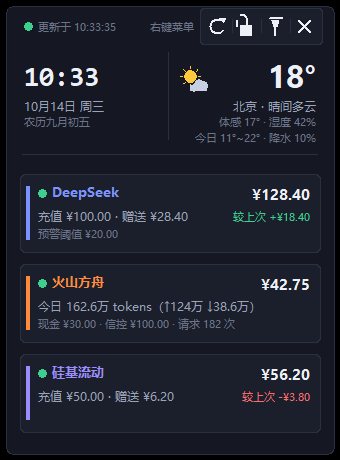
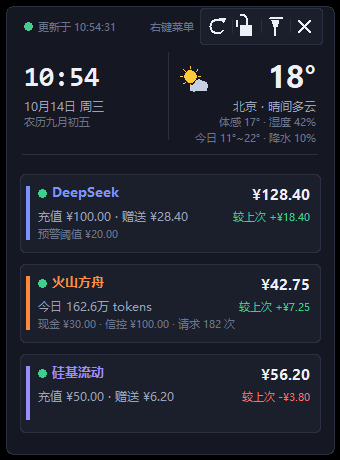
fix: 修复「较上次」与火山方舟用量行文字重叠 (#2)
火山方舟卡片的用量行（今日 x 万 tokens（↑a ↓b））较长时，会和右上角的
「较上次 ±¥x」标签叠在一起。现在渲染完成后按实际像素宽度检查：

- 放得下 → 原样显示（含 ↑/↓ 明细）
- 放不下 → 先在自然断点（（ 或 ·）处收尾，只留总量
- 仍然放不下 → 逐字截断加省略号

同时更新 README 截图（三张卡片都带余额变化对比）。

diff --git a/desktop_widget.py b/desktop_widget.py
@@ -2856,6 +2856,7 @@ class Widget:
                 self._render_zhipu(pid, items, d, threshold, t)
             else:
                 self._render_money(pid, items, d, threshold, t, p)
+            self._fit_line1_beside_chg(items)
 
         self.c.itemconfig("foot_updated", text=f"更新于 {self.updated_at}")
 
@@ -2871,6 +2872,42 @@ class Widget:
         col = t["ok"] if delta > 0 else t["err"]
         self.c.itemconfig(items["chg"], text=f"较上次 {sign}{unit}{abs(delta):.2f}",
                           fill=col)
+
+    def _fit_line1_beside_chg(self, items):
+        """line1 过长会撞上右侧的「较上次」标签：超宽就截断加省略号，不再重叠。
+
+        用 canvas bbox 实测像素宽度，因此在 85%~160% 缩放下同样准确。
+        """
+        item, chg = items.get("line1"), items.get("chg")
+        if item is None or chg is None:
+            return
+        if not self.c.itemcget(chg, "text"):
+            return
+        txt = self.c.itemcget(item, "text")
+        if not txt:
+            return
+        cb, lb = self.c.bbox(chg), self.c.bbox(item)
+        if not cb or not lb:
+            return
+        limit = cb[0] - 8
+        if lb[2] <= limit:
+            return
+        # 先在自然断点（（ 或 ·）处收尾，避免截出「↓…」这种半截内容
+        for sep in ("（", " · "):
+            k = txt.find(sep)
+            if k > 0:
+                self.c.itemconfig(item, text=txt[:k].rstrip())
+                b = self.c.bbox(item)
+                if b and b[2] <= limit:
+                    return
+        self.c.itemconfig(item, text=txt)
+        s = txt
+        while s:
+            s = s[:-1]
+            self.c.itemconfig(item, text=(s + "…") if s else "")
+            b = self.c.bbox(item)
+            if not b or b[2] <= limit:
+                return
 
     def _render_money(self, pid, items, d, threshold, t, p):
         """DeepSeek / 硅基流动 / Kimi / WorkBuddy积分 等「余额型」平台统一渲染。"""
